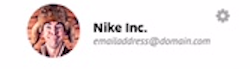
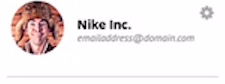
headshot and side menu in place

Changed region(s): [[0.0311, 0.0, 0.8711, 0.8406], [0.84, 0.058, 0.9644, 0.3478]]

diff --git a/index.html b/index.html
@@ -22,7 +22,28 @@
     <span class="fileName">Name</span>
     <span class="fileSize">Size</span>
   </div>
-<!-- <img src="headshot.png" alt="headshot" /> -->
+  <div class="headShot">
+    <img src="headshot.png" alt="headshot" />
+  </div>
+  <div class="sideMenu">
+    <ul class="sideMenuList">
+      <li class="listClass"><i class="fa fa-clock-o" aria-hidden="true"></i>Recent</li>
+      <li class="listClass"><i class="fa fa-file-o" aria-hidden="true"></i>Files</li>
+      <li class="listClass"><i class="fa fa-folder" aria-hidden="true"></i>Folders</li>
+      <li class="listClass"><i class="fa fa-file-image-o" aria-hidden="true"></i>Photos</li>
+      <li class="listClass"><i class="fa fa-bell-o" aria-hidden="true"></i>Notifications</li>
+      <li class="listClass"><i class="fa fa-sign-out" aria-hidden="true"></i>Sign Out</li>
+    </ul>
+  </div>
+
+
+
+
+
+
+
+
+
   <!--jquery-upload-file-plugin-code-->
   <div>
   <div id="fileuploader">Upload</div>

diff --git a/css/main.css b/css/main.css
@@ -74,6 +74,32 @@ body {
   float: left;
 }
 
+/*Headshot Picture and Side Menu Styling*/
+
+.headShot {
+  float: left;
+  margin-right: 32%;
+  margin-top: -11%;
+  margin-left: 11%;
+}
+
+.sideMenu {
+  float: left;
+  margin-left: 9.9%;
+  margin-top: -4%;
+}
+
+.sideMenuList {
+  list-style: none;
+}
+
+.listClass {
+  margin-bottom: 15px;
+}
+
+li .fa {
+  padding-right: 17px;
+}
 
 
 
